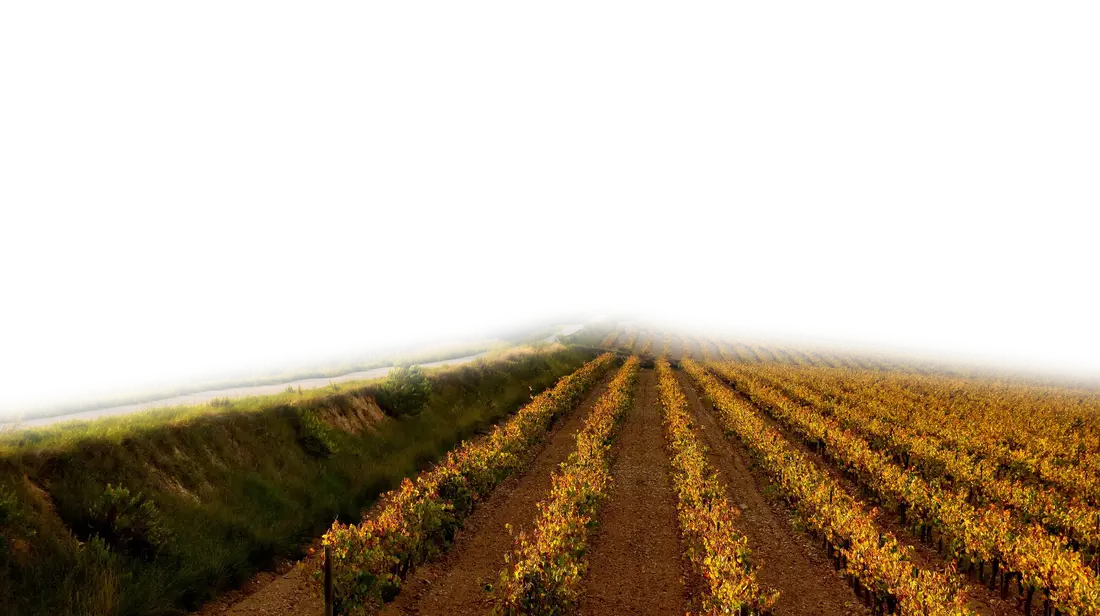
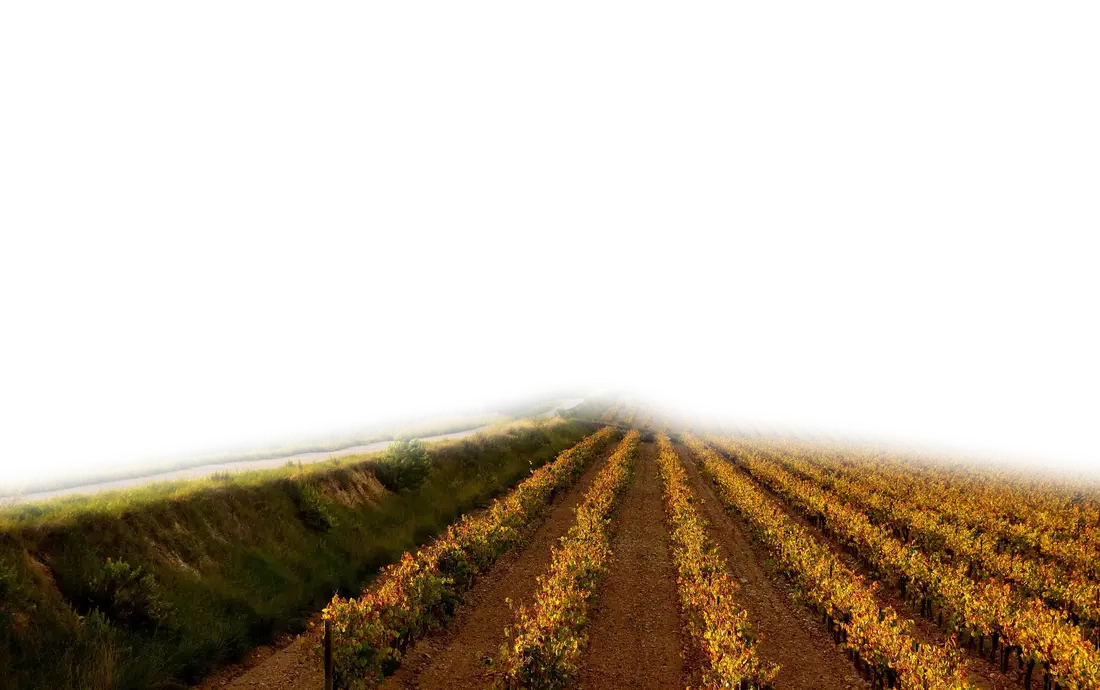
Stronger parallax: wider layer speeds, scroll zoom, text lift-off
Layers now drift at 0.80/0.60/0.40/0.22 of the scroll speed and zoom by up to 2/5/9/15% (dolly
effect), the title lifts away faster than the page, and cards rise from further down. Layers
share a taller canvas with mirrored sky above the photo so the bigger drift never shows an
edge; the near/far boundary and hills-to-field edge were tuned so nothing ghosts.

Changed region(s): [[0.0, 0.5244, 1.0, 1.0]]

diff --git a/web/src/pages/HomePage/HomePage.jsx b/web/src/pages/HomePage/HomePage.jsx
@@ -68,16 +68,19 @@ const SECTIONS = [
   },
 ];
 
-// The hero photo is cut into depth layers (see scripts/build_hero_layers.py). Each drifts down at its own
-// fraction of the scroll speed: the far sky moves most, the foreground vines least, so they slide past
-// each other. At rest the stack is exactly the original photo.
+// The hero photo is cut into depth layers (see scripts/build_hero_layers.py). As you scroll, each layer
+// drifts down at its own fraction of the scroll speed (the far sky most, the foreground vines least)
+// and zooms in by its own amount (the foreground most), so they slide and swell past each other like a
+// slow dolly shot. `zoom` is the extra scale reached once the hero has scrolled away.
+// Rules that keep it gap-free: nearer layers never drift faster or zoom less than the ones behind
+// them, and every layer scales around its bottom edge.
 const LAYERS = [
-  { id: 'sky',   speed: 0.5 },
-  { id: 'land',  speed: 0.4 },
-  { id: 'mid',   speed: 0.3 },
-  { id: 'front', speed: 0.2 },
+  { id: 'sky',   speed: 0.80, zoom: 0.02 },
+  { id: 'land',  speed: 0.60, zoom: 0.05 },
+  { id: 'mid',   speed: 0.40, zoom: 0.09 },
+  { id: 'front', speed: 0.22, zoom: 0.15 },
 ];
-const layerSrc = (id, mobile) => (id === 'sky' ? `/hero${mobile ? '-mobile' : ''}.webp` : `/hero-${id}${mobile ? '-mobile' : ''}.webp`);
+const layerSrc = (id, mobile) => `/hero-${id}${mobile ? '-mobile' : ''}.webp`;
 
 export default function HomePage() {
   useEffect(() => { document.title = 'Meson Sabika Education'; }, []);
@@ -105,10 +108,11 @@ export default function HomePage() {
       const shift = Math.min(y, h);
       LAYERS.forEach((l, i) => {
         const el = layerRefs.current[i];
-        if (el) el.style.transform = `translate3d(0, ${shift * l.speed}px, 0)`;
+        if (el) el.style.transform = `translate3d(0, ${shift * l.speed}px, 0) scale(${1 + p * l.zoom})`;
       });
-      textRef.current.style.transform = `translate3d(0, ${p * 70}px, 0)`;
-      textRef.current.style.opacity = String(Math.max(0, 1 - p * 1.15));
+      // the title is the nearest thing: it lifts away faster than the page, and fades as it goes
+      textRef.current.style.transform = `translate3d(0, ${-shift * 0.32}px, 0)`;
+      textRef.current.style.opacity = String(Math.max(0, 1 - p * 1.5));
       page.style.setProperty('--sy', String(Math.round(y)));
     };
     const onScroll = () => { if (!frame) frame = requestAnimationFrame(update); };

diff --git a/web/src/pages/HomePage/HomePage.module.css b/web/src/pages/HomePage/HomePage.module.css
@@ -14,13 +14,15 @@
 .layers { position: absolute; inset: 0; }
 
 /* every layer is the same box, taller than the hero and shifted up, so the drift (which only moves them
-   down) never uncovers an edge; same size + same object-position keeps the layers perfectly aligned */
+   down) never uncovers an edge; same size + same object-position keeps the layers perfectly aligned.
+   They scale around the bottom edge, so zooming in can't pull the bottom up off the hero. */
 .layer {
   position: absolute;
   left: 0;
-  top: -25%;
+  top: -40%;
   width: 100%;
-  height: 125%;
+  height: 140%;
+  transform-origin: 50% 100%;
   will-change: transform;
 }
 .layer picture, .layer img { display: block; width: 100%; height: 100%; }
@@ -139,7 +141,7 @@
   background-image: var(--tile-light);
   background-size: 50px 50px;
   /* the tilework drifts with the scroll position (--sy is set on the page) */
-  background-position: right calc(var(--sy, 0) * -0.05px) top calc(var(--sy, 0) * 0.08px);
+  background-position: right calc(var(--sy, 0) * -0.1px) top calc(var(--sy, 0) * 0.16px);
   opacity: 0.35;
   -webkit-mask-image: linear-gradient(225deg, #000 10%, transparent 70%);
   mask-image: linear-gradient(225deg, #000 10%, transparent 70%);
@@ -244,7 +246,7 @@
   .heroSub { animation-delay: 0.34s; }
 
   /* topic cards wait below their place until they scroll into view, then rise in, staggered across a row */
-  .drawer[data-reveal]:not([data-in]) { opacity: 0; transform: translateY(34px); }
+  .drawer[data-reveal]:not([data-in]) { opacity: 0; transform: translateY(64px) scale(0.96); }
   .drawer[data-in] {
     animation: rise 0.75s cubic-bezier(0.2, 0.7, 0.2, 1) backwards;
     animation-delay: calc(var(--i, 0) * 90ms);
@@ -252,9 +254,9 @@
 }
 
 @keyframes heroIn { from { opacity: 0; transform: translateY(18px); } }
-@keyframes rise { from { opacity: 0; transform: translateY(34px); } }
+@keyframes rise { from { opacity: 0; transform: translateY(64px) scale(0.96); } }
 
 @media (prefers-reduced-motion: reduce) {
-  .layer { top: 0; height: 100%; will-change: auto; }
+  .layer { will-change: auto; }
   .heroInner { will-change: auto; }
 }

diff --git a/scripts/build_hero_layers.py b/scripts/build_hero_layers.py
@@ -1,9 +1,10 @@
 #!/usr/bin/env python3
 """Cut the home-page hero photo into depth layers for the parallax.
 
-Writes web/public/hero-<layer>.webp (and -mobile) for: land, mid, front. The existing hero.webp is
-the full photo and stays the back layer (sky). Each layer is the ORIGINAL pixels with an alpha mask, so
-stacking them at rest reproduces the photo exactly, and when they move at different speeds the layer
+Writes web/public/hero-<layer>.webp (and -mobile) for: sky, land, mid, front. Every layer is the SAME
+canvas size (the photo plus PAD_FRAC extra rows on top, a mirror of the top of the photo, so the sky has
+room to drift down without showing an edge) and is made of the ORIGINAL pixels, the cut-outs with an alpha
+mask. Stacking them at rest reproduces the photo exactly, and when they move at different speeds the layer
 behind always has real picture content to show.
 
 Layers (back to front):  sky = hero.webp (the whole photo)
@@ -23,6 +24,7 @@ PUBLIC = os.path.join(HERE, '..', 'web', 'public')
 SRC = os.path.join(PUBLIC, 'hero.webp')
 REF_W = 1280          # the coordinate system the lines were traced in
 W_OUT = 2048          # layer resolution
+PAD_FRAC = 0.12       # extra rows above the photo, as a fraction of its height (mirrored sky)
 
 # ridge: where the dark distant hills meet the sky
 RIDGE = [(0, 292), (40, 288), (100, 280), (200, 272), (330, 271), (430, 272), (520, 281), (575, 282), (600, 270),
@@ -30,7 +32,7 @@ RIDGE = [(0, 292), (40, 288), (100, 280), (200, 272), (330, 271), (430, 272), (5
 # bottom of the distant-hills band: below this line everything is "mid ground"
 MID_TOP = [(0, 352), (150, 350), (300, 342), (450, 345), (600, 345), (700, 338), (800, 332), (1000, 328), (1280, 325)]
 # near/far split: the road and embankment on the left, the first rows of vines in the middle and right
-FRONT_TOP = [(0, 503), (200, 472), (400, 441), (560, 417), (650, 395), (720, 392), (800, 408), (1000, 424), (1280, 458)]
+FRONT_TOP = [(0, 503), (200, 472), (400, 441), (560, 417), (650, 395), (720, 395), (800, 424), (1000, 446), (1280, 486)]
 
 
 def line_mask(size, pts, scale, feather):
@@ -43,11 +45,11 @@ def line_mask(size, pts, scale, feather):
     return m.filter(ImageFilter.GaussianBlur(feather)) if feather else m
 
 
-def save(im_rgba, name, width, quality):
+def save(im_rgba, name, width, quality, alpha=True):
     out = im_rgba.resize((width, round(im_rgba.height * width / im_rgba.width)), Image.LANCZOS)
     tmp = os.path.join(PUBLIC, name + '.png')
     out.save(tmp)
-    subprocess.run(['cwebp', '-q', str(quality), '-alpha_q', '85', '-quiet', tmp, '-o', os.path.join(PUBLIC, name + '.webp')], check=True)
+    subprocess.run(['cwebp', '-q', str(quality)] + (['-alpha_q', '85'] if alpha else []) + ['-quiet', tmp, '-o', os.path.join(PUBLIC, name + '.webp')], check=True)
     os.remove(tmp)
     return os.path.getsize(os.path.join(PUBLIC, name + '.webp')) // 1024
 
@@ -74,7 +76,7 @@ def main(debug_dir=None):
         yt = np.interp(x / s, [p[0] for p in MID_TOP], [p[1] for p in MID_TOP]) * s
         near[int(max(0, yt - 30 * s)):int(yt), x] = 1
     mid = np.maximum(mid_top, band * (np.asarray(not_hill).astype(np.float32) / 255) * near)
-    mid = np.asarray(Image.fromarray((mid * 255).astype(np.uint8)).filter(ImageFilter.GaussianBlur(1.6))).astype(np.float32) / 255
+    mid = np.asarray(Image.fromarray((mid * 255).astype(np.uint8)).filter(ImageFilter.GaussianBlur(9))).astype(np.float32) / 255   # soft: it reads as haze where field meets hills
     mid = mid * land                                    # never above the ridge
 
     front = np.asarray(line_mask((W, H), FRONT_TOP, s, 26 * s / 1.6)).astype(np.float32) / 255
@@ -91,8 +93,17 @@ def main(debug_dir=None):
 
     layers = {'land': land, 'mid': mid, 'front': front}
     sizes = {}
+    pad = round(PAD_FRAC * H)
+    def padded(arr, mirror):
+        top = np.flipud(arr[:pad]) if mirror else np.zeros((pad,) + arr.shape[1:], arr.dtype)
+        return np.concatenate([top, arr], axis=0)
+    layers = {'sky': np.ones((H, W), np.float32), **layers}
     for name, alpha in layers.items():
-        rgba = np.dstack([a, alpha[..., None] * 255]).astype(np.uint8)
+        rgba = np.dstack([padded(a, True), padded(alpha[..., None] * 255, False)]).astype(np.uint8)
+        if name == 'sky':                      # the sky is the whole photo, no transparency
+            im = Image.fromarray(rgba[..., :3], 'RGB')
+            sizes[name] = (save(im, 'hero-sky', 2048, 74, alpha=False), save(im, 'hero-sky-mobile', 1100, 70, alpha=False))
+            continue
         im = Image.fromarray(rgba, 'RGBA')
         sizes[name] = (save(im, f'hero-{name}', 2048, 74), save(im, f'hero-{name}-mobile', 1100, 70))
         if debug_dir:
